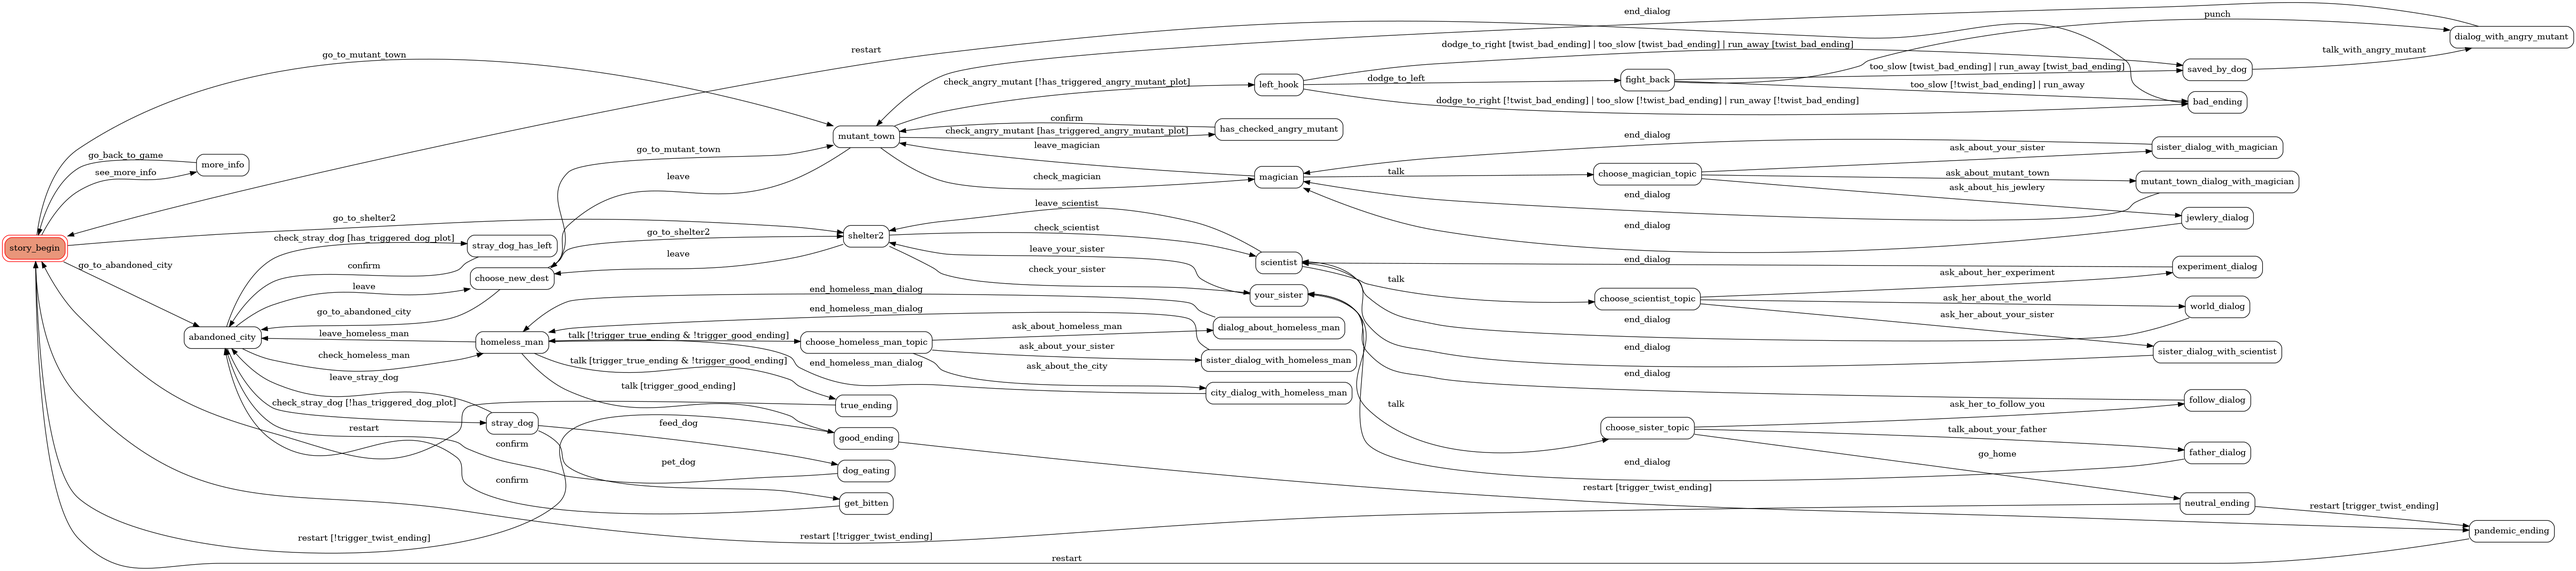
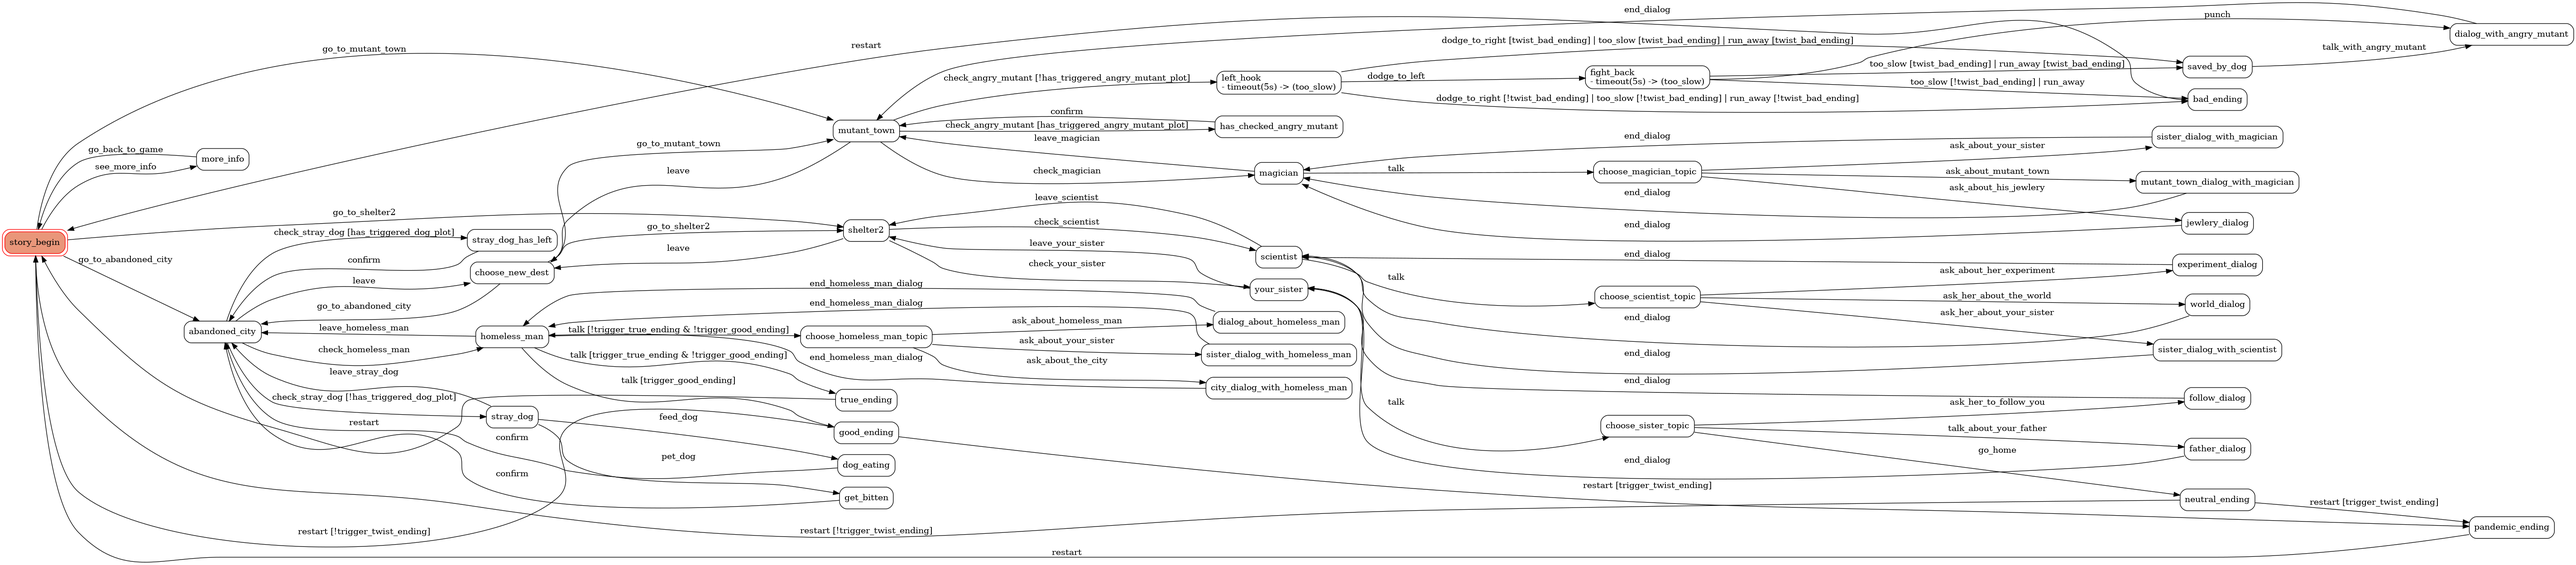
Update state diagram with timeout

diff --git a/text_adventure_line_bot/line_bot_app/Story/Story.py b/text_adventure_line_bot/line_bot_app/Story/Story.py
@@ -26,7 +26,7 @@ class Story(object):
     ]+all_endings
 
     def __init__(self):
-        self.machine=GraphMachineWithTimeout(model=self,states=Story.states,initial='story_begin',ignore_invalid_triggers=True)
+        self.machine=GraphMachineWithTimeout(model=self,states=Story.states,initial='story_begin',ignore_invalid_triggers=True,show_conditions=True,show_state_attributes=True)
         self.has_been_bitten=False 
         self.has_got_jewlery=False
         self.asked_sister_to_follow=False
